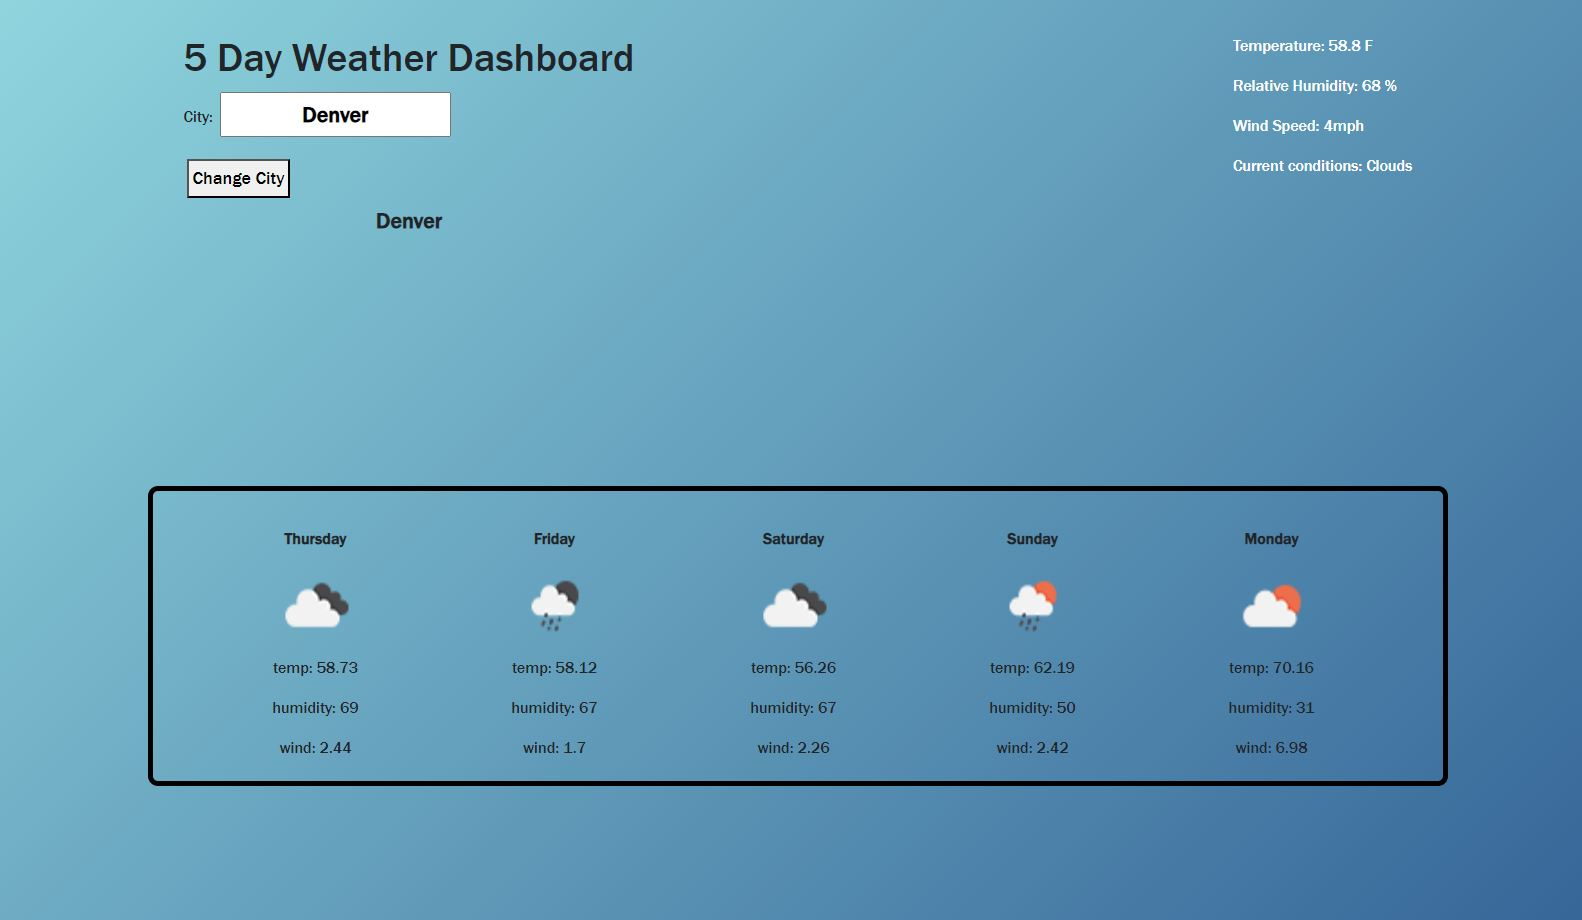
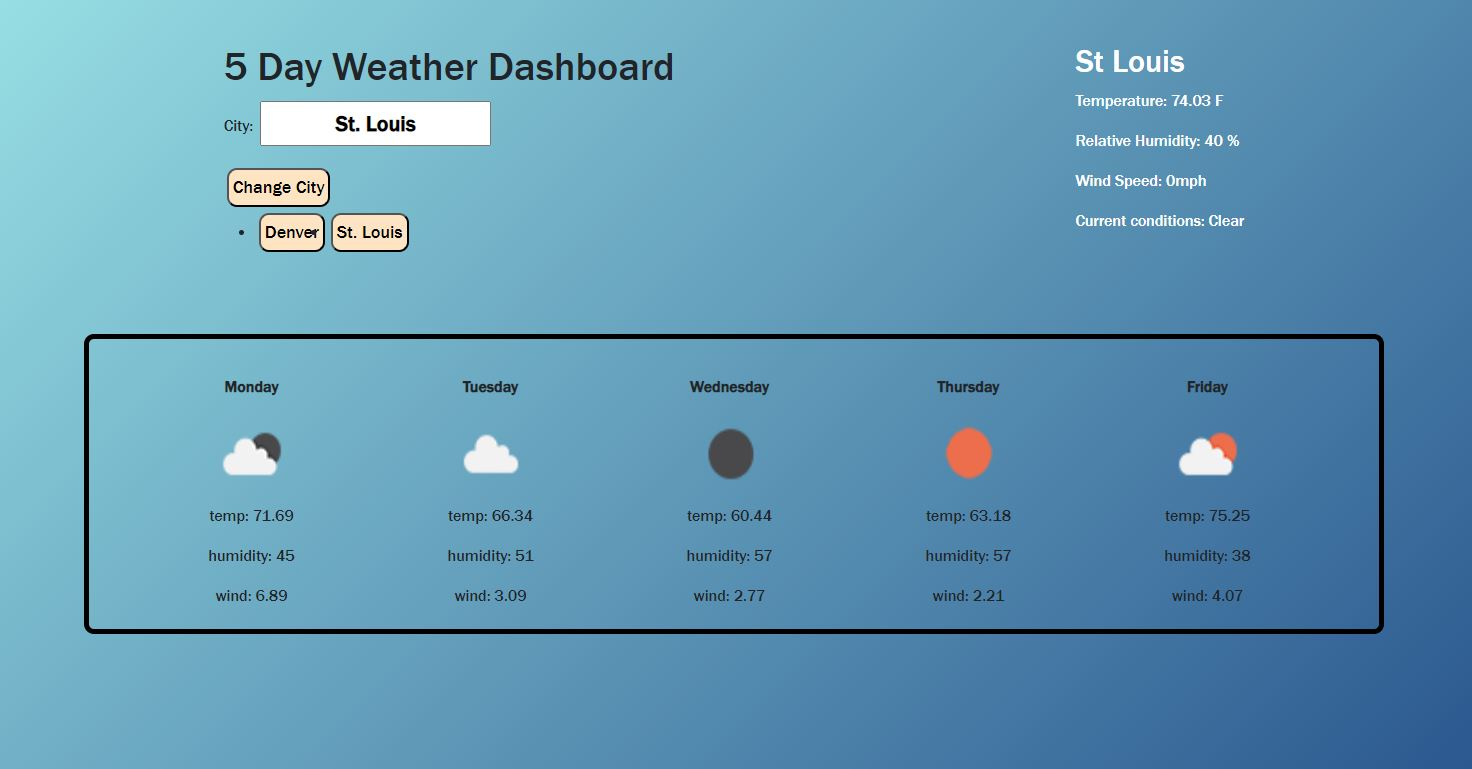
fixed layout and styling

diff --git a/assets/css/style.css b/assets/css/style.css
@@ -18,9 +18,13 @@ button {
     margin: 3px;
     padding: 4px;
     text-align: center;
+    background-color: bisque;
     font-size: 18px;
     font-weight: 400;
-    border-radius: 8px;
+    border-radius: 10px;
+}
+#history {
+    display: flex;
 }
 #cityInput, #cityName, #inputCpntainer {
     margin: 3px;
